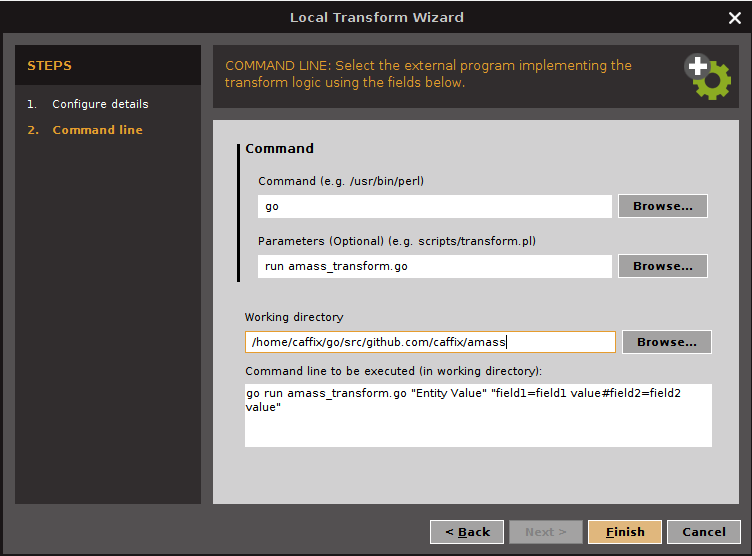
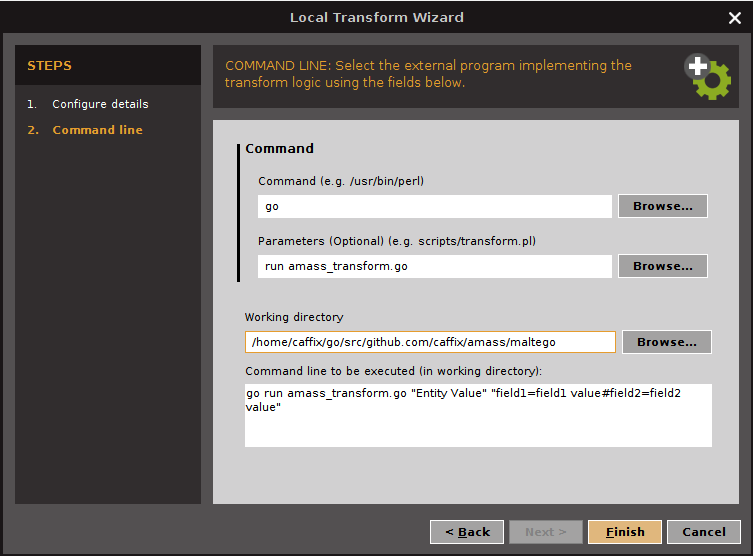
changed the location of Maltego transform

diff --git a/maltego/amass_transform.go b/maltego/amass_transform.go
@@ -1,0 +1,37 @@
+// Copyright 2017 Jeff Foley. All rights reserved.
+// Use of this source code is governed by Apache 2 LICENSE that can be found in the LICENSE file.
+
+package main
+
+import (
+	"fmt"
+	"os"
+
+	"github.com/caffix/amass/amass"
+	"github.com/sensepost/maltegolocal/maltegolocal"
+)
+
+func main() {
+	var domains []string
+	var names chan *amass.ValidSubdomain = make(chan *amass.ValidSubdomain, 10)
+
+	lt := maltegolocal.ParseLocalArguments(os.Args)
+	domains = append(domains, lt.Value)
+
+	trx := maltegolocal.MaltegoTransform{}
+
+	go func() {
+		for {
+			n := <-names
+
+			if n.Subdomain != domains[0] {
+				trx.AddEntity("maltego.DNSName", n.Subdomain)
+			}
+		}
+	}()
+
+	trx.AddUIMessage("The amass transform can take a few minutes to complete.", "Inform")
+	amass.LookupSubdomainNames(domains, names, nil)
+
+	fmt.Println(trx.ReturnOutput())
+}
